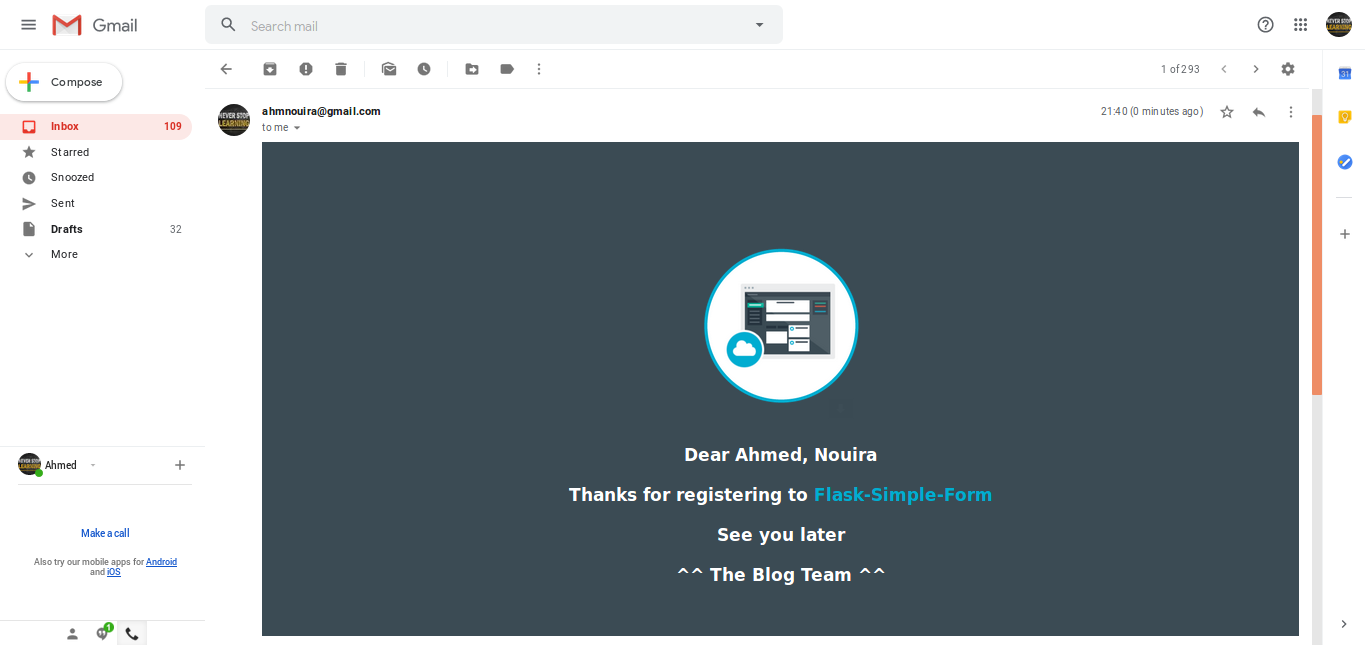
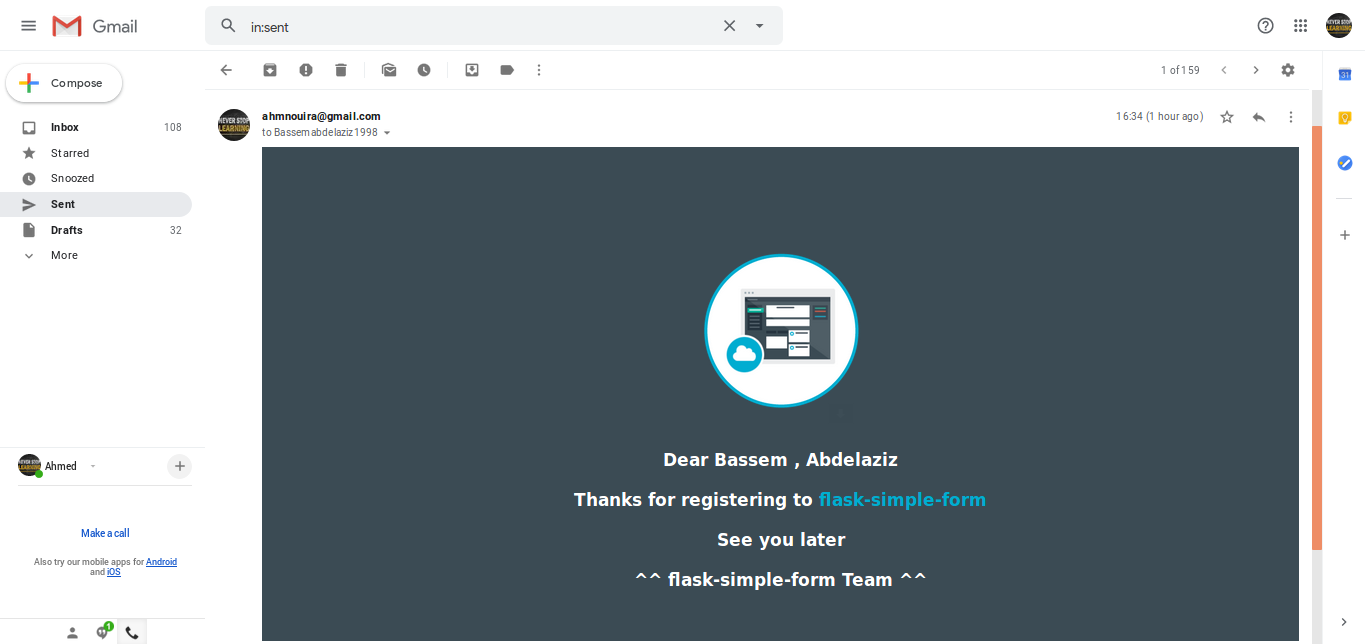
add email support
v2.1

diff --git a/app/templates/index.html b/app/templates/index.html
@@ -26,7 +26,7 @@
   	console.log(socket);
 	 
 	socket.on('my_response', function(msg) {
-               	$('#time').html (msg.time.day_name + ", " + msg.time.day + " " + msg.time.month + " " + msg.time.year + ", " + msg.time.hour + ":" + msg.time.minute + ":" + msg.time.second + " " + msg.time.pm_am + " <span class='blue'> Real-Time-Update </span>" );
+               	$('#time').html (msg.time.day_name + ", " + msg.time.day + " " + msg.time.month + " " + msg.time.year + ", " + msg.time.hour + ":" + msg.time.minute + ":" + msg.time.second + " " + msg.time.pm_am + " <span class='blue'> Real-Time </span>" );
             });
         });
 
@@ -39,9 +39,9 @@
           <img class="newappIcon" src="../static/images/newapp-icon.png" alt="newapp"/>
         </div>
         <div class="col-sm-offset-1 col-sm-7">
-          <h1 class="blue"> Flask Simple Form </h1>
+          <h1 class="blue"> flask-simple-form </h1>
            
-          <h2 id="time"> {{time['day_name']}}, {{time['day']}} {{time['month']}} {{time['year'] }}, {{time['hour']}}:{{time['minute']}}:{{time['second']}} {{time['pm_am']}} <span class="blue">Real-Time-Update</span> </h2>
+          <h2 id="time"> {{time['day_name']}}, {{time['day']}} {{time['month']}} {{time['year'] }}, {{time['hour']}}:{{time['minute']}}:{{time['second']}} {{time['pm_am']}} <span class="blue">Real-Time</span> </h2>
 
         </div>
       </div>

diff --git a/app/templates/base.html b/app/templates/base.html
@@ -5,13 +5,13 @@
     <meta charset="utf-8">
     <meta http-equiv="X-UA-Compatible" content="IE=edge">
     <meta name="viewport" content="width=device-width, initial-scale=1">
-    <meta name="description" content="Flask Simple Form">
+    <meta name="description" content="flask-simple-form">
     <meta name="author" content="Ahmed Nouira">
     {% block refresh %}
     {% endblock %}
     <link rel="shortcut icon" href="{{url_for('static', filename='favicon.ico')}}" type="image/x-icon">
 
-    <title>Flask Simple Form </title>
+    <title>flask-simple-form</title>
 
     <!-- jQuery (necessary for Bootstrap's JavaScript plugins) -->
     <script src="https://ajax.googleapis.com/ajax/libs/jquery/1.12.4/jquery.min.js"></script>

diff --git a/app/templates/email/register_notification.html b/app/templates/email/register_notification.html
@@ -16,11 +16,11 @@
 <div style="text-align: center;">
 <h2> Dear {{ user.first_name }}, {{user.last_name}} </h2>
 <h2>
-    Thanks for registering to <a style="color: #00aed1; text-decoration:none;"  href="https://github.com/AhmNouira/flask-simple-form"  target=_blank> Flask-Simple-Form </a></h2> 
+    Thanks for registering to <a style="color: #00aed1; text-decoration:none;"  href="https://github.com/AhmNouira/flask-simple-form"  target=_blank> flask-simple-form </a></h2> 
 			
 <h2> See you later </h2>
 
-<h2> ^^ The Blog Team ^^ </h2>
+<h2> ^^ flask-simple-form Team ^^ </h2>
 <br>
 <br>
 </div>

diff --git a/app/templates/registered.html b/app/templates/registered.html
@@ -27,7 +27,7 @@ $(document).ready(function() {
         <div class="col-sm-offset-1 col-sm-7">
           <h1>Thank You for Registering!</h1>
           <p style="padding-top: 20px;">You are now registered
-            for <a href="https://github.com/AhmNouira/flask-simple-form" target="_blank" class="blue" style="font-weight: bold;"> Flask Simple Form App</a>.</p>
+            for <a href="https://github.com/AhmNouira/flask-simple-form" target="_blank" class="blue" style="font-weight: bold;"> flask-simple-form</a>.</p>
 
           <p> We look forward to seeing you.</p>
           <p> Today is

diff --git a/app/mail.py b/app/mail.py
@@ -15,6 +15,6 @@ def send_sync_email(app, msg):
         mail.send(msg)
 
 def send_mail(user):
-    send_email_helper('[Flask-Simple-Form] Notification', sender=app.config['MAIL_USERNAME'], \
+    send_email_helper(' [flask-simple-form] ', sender=app.config['MAIL_USERNAME'], \
     recipients=[user.email], text_body = render_template('email/register_notification.txt', user=user),
     html_body = render_template('email/register_notification.html', user=user))

diff --git a/README.md b/README.md
@@ -5,7 +5,7 @@ This is a simple flask register-form application designed to run in multiple way
 * This app use _[MongoDB](https://www.mongodb.com/)_ as database supported by _[Flask-MongoAlchemy](https://pythonhosted.org/Flask-MongoAlchemy/)_ extension
 => So you have to install **MongoDB** database to run this locally 
  
-* uses _[Flask-SocketIO](https://github.com/miguelgrinberg/Flask-SocketIO)_ along with _[Ajax](https://en.wikipedia.org/wiki/Ajax_(programming)_ for real time update
+* uses _[Flask-SocketIO](https://github.com/miguelgrinberg/Flask-SocketIO)_ along with _[Ajax](https://en.wikipedia.org/wiki/Ajax_(programming))_ for real time update
 
 * you will get an email if you have registered 
 
@@ -26,7 +26,7 @@ This app is designed to run in different ways:
 2. `git clone` the project then `cd` into the directory
 3. run `virtualenv -p /usr/bin/python3 venv`or `python -m venv venv` to create a virtual environment
 4. activate it using `source venv/bin/activate`
-5. `pip install -r requirements/prod_local.txt.txt` to install the app libaries and it dependencies
+5. `pip install -r requirements/prod_local.txt` to install the app libaries and it dependencies
 6. install MongoDB database `sudo apt-get install mongodb`
 7. check your database is installed and print its version using `mongo --version`
 
